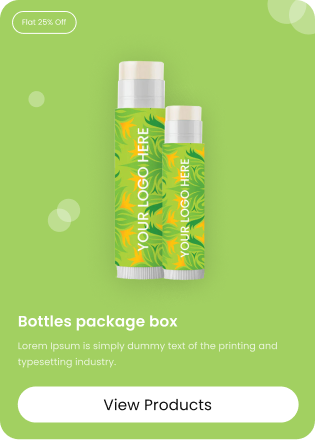
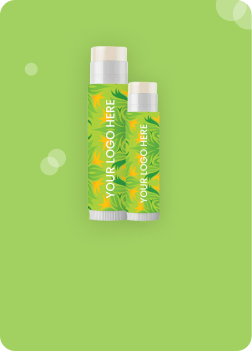
card_chnages

diff --git a/components/StackCards/StackCards.module.css b/components/StackCards/StackCards.module.css
@@ -3,9 +3,11 @@
   width: 100%;
 }
 .text ul {
-  position:relative;
+  position: relative;
   width: 680px;
-  height: 500px;
+  height: 760px;
+  display: flex;
+  align-items: center;
 }
 .text ul li:nth-child(1) {
   width: 100%;
@@ -14,12 +16,32 @@
   right: 0;
   z-index: 5;
 }
+.text ul li:nth-child(1) .list_explore{
+  width: 500px;
+  height: 600px;
+}
+.text ul li:nth-child(1) .list_explore img{
+  width: 500px  !important;
+  height: 600px  !important;
+  object-fit: cover;
+  border-radius: 30px !important;
+}
 .text ul li:nth-child(2) {
   width: 100%;
   max-width: 450px;
   position: absolute;
   left: 132px;
   z-index: 4;
+}
+.text ul li:nth-child(2) .list_explore{
+  width: 450px;
+  height: 550px;
+}
+.text ul li:nth-child(2) .list_explore img{
+  width: 450px  !important;
+  height: 550px  !important;
+  object-fit: cover;
+  border-radius: 30px !important;
 }
 .text ul li:nth-child(3) {
   width: 100%;
@@ -28,6 +50,16 @@
   left: 84px;
   z-index: 3;
 }
+.text ul li:nth-child(3) .list_explore{
+  width: 400px;
+  height: 500px;
+}
+.text ul li:nth-child(3) .list_explore img{
+  width: 400px  !important;
+  height: 500px  !important;
+  object-fit: cover;
+  border-radius: 30px !important;
+}
 .text ul li:nth-child(4) {
   width: 100%;
   max-width: 350px;
@@ -35,10 +67,77 @@
   left: 40px;
   z-index: 2;
 }
+.text ul li:nth-child(4) .list_explore{
+  width: 350px;
+  height: 450px;
+}
+.text ul li:nth-child(4) .list_explore img{
+  width: 350px  !important;
+  height: 450px  !important;
+  object-fit: cover;
+  border-radius: 30px !important;
+}
 .text ul li:nth-child(5) {
   width: 100%;
   max-width: 300px;
   position: absolute;
   left: 0px;
   z-index: 1;
+}
+.text ul li:nth-child(5) .list_explore{
+  width: 300px;
+  height: 400px;
+}
+.text ul li:nth-child(5) .list_explore img{
+  width: 300px  !important;
+  height: 400px  !important;
+  object-fit: cover;
+  border-radius: 30px !important;
+}
+.list_explore{
+  position: relative;
+}
+.flat_dis{
+  position: absolute;
+  top: 20px;
+  left: 20px;
+  color: #fff;
+  border: 1px solid;
+  border-radius: 30px;
+  padding: 7px 20px;
+  font-size: 11px;
+}
+.bottom_content{
+  position: absolute;
+  bottom: 30px;
+  left: 20px;
+  right: 20px;
+}
+.bottom_content button{
+  background: #fff;
+  border-radius: 30px;
+  padding: 10px 20px;
+  width: 100%;
+  font-size: 18px;
+  font-family: poppins;
+  transition: .5s all;
+  border: 1px  solid #fff;
+}
+.bottom_content button:hover{
+  background-color: transparent;
+  color: #fff;
+  border-color: #fff;
+}
+.bottom_content h2{
+  font-size: 22px;
+  font-weight: 600;
+  color: #fff;
+  text-transform: capitalize;
+}
+.bottom_content p{
+  font-size: 16px;
+  color: #e1e1e1;
+  font-family: 'DM Sans', sans-serif;
+  font-weight: 300;
+  padding: 7px 0px 20px;
 }

diff --git a/components/StackCards/StackCards.jsx b/components/StackCards/StackCards.jsx
@@ -14,36 +14,36 @@ let imagesList = [
     img: CardOne,
     className: '',
     textContent: '',
-    category: 'water Bottle',
-    heading: 'lorem ipsum here',
+    category: 'Cup design',
+    heading: 'Lorem Ipsum is simply dummy text of the printing and typesetting industry.',
   },
   {
     id: 2,
     img: CardTwo,
     className: '',
-    category: 'water Bottle',
-    heading: 'lorem ipsum here',
+    category: 'Cup design',
+    heading: 'Lorem Ipsum is simply dummy text of the printing and typesetting industry.',
   },
   {
     id: 3,
     img: CardThree,
     className: '',
-    category: 'water Bottle',
-    heading: 'lorem ipsum here',
+    category: 'Cup design',
+    heading: 'Lorem Ipsum is simply dummy text of the printing and typesetting industry.',
   },
   {
     id: 4,
     img: CardFour,
     className: '',
-    category: 'water Bottle',
-    heading: 'lorem ipsum here',
+    category: 'Make T-shirt design',
+    heading: 'Lorem Ipsum is simply dummy text of the printing and typesetting industry.',
   },
   {
     id: 5,
     img: CardFive,
     className: '',
-    category: 'water Bottle',
-    heading: 'lorem ipsum here',
+    category: 'Bottles package box',
+    heading: 'Lorem Ipsum is simply dummy text of the printing and typesetting industry.',
   },
 ]
 
@@ -78,17 +78,16 @@ const Dummy = () => {
                     className={styles.cardImage}
                     //  onClick={() => router.push('/products')}
                   />
-                  {/* <div>
+                   <div>
                     <div className={styles.flat_dis}>Flat 20% off</div>
                     <div className={styles.bottom_content}>
-                      <h2>Cup design</h2>
+                      <h2>{card.category}</h2>
                       <p>
-                        lorem isupm lorem isupm lorem isupm lorem isupm lorem
-                        isupm
+                       {card.heading}
                       </p>
                       <button>View Product</button>
                     </div>
-                  </div> */}
+                  </div>
                 </div>
               </li>
             </>

diff --git a/components/Product/Product.jsx b/components/Product/Product.jsx
@@ -319,6 +319,7 @@ const Product = ({ product, loading, error }) => {
                         src={singleImage}
                         width={400}
                         height={560}
+                        style={{mixBlendMode: 'color-burn'}}
                         alt="Single_Product_Image"
                         className={Styles.product_image}
                       />

diff --git a/components/Filter/Filter.module.css b/components/Filter/Filter.module.css
@@ -294,6 +294,9 @@
   font-family: 'Poppins' !important;
   width: unset !important;
 }
+.collection_Single > .imgContent img{
+  mix-blend-mode: color-burn;
+}
 .panel_wrap::-webkit-scrollbar {
   display: none;
 }
